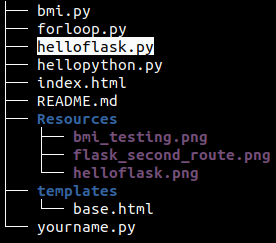
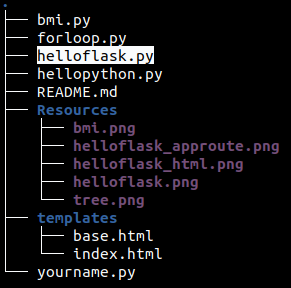
Rename screenshots, restructure templates

Changed region(s): [[0.0, 0.0, 0.9855, 0.9794]]

diff --git a/w21/monday/README.md b/w21/monday/README.md
@@ -117,7 +117,7 @@ Testing:
     $ python3 bmi.py 185 84
     You are normal or healthy weight with BMI of 24.543462381300216
 
-![bmi](Resources/bmi_testing.png)
+![bmi](Resources/bmi.png)
 
 ### pw1.5 Kaksi reittiä
 
@@ -139,7 +139,7 @@ Let's modify `helloflask.py` to return something from `127.0.0.1:5000/python`:
 
 Now navigating `127.0.0.1:5000/python` returns "Python is cool!":
 
-![flask second route](Resources/flask_second_route.png)
+![helloflask approute](Resources/helloflask_approute.png)
 
 ### pw1.6 base.html
 
@@ -184,7 +184,7 @@ I'll add a single paragraph so `base.html` has something to render besides blank
 
 Now running the Flask application and navigating to `127.0.0.1:5000/base` renders `templates/base.html`
 
-![flask html](Resources/flask_html.png)
+![flask html](Resources/helloflask_html.png)
 
 ## Sources
 
